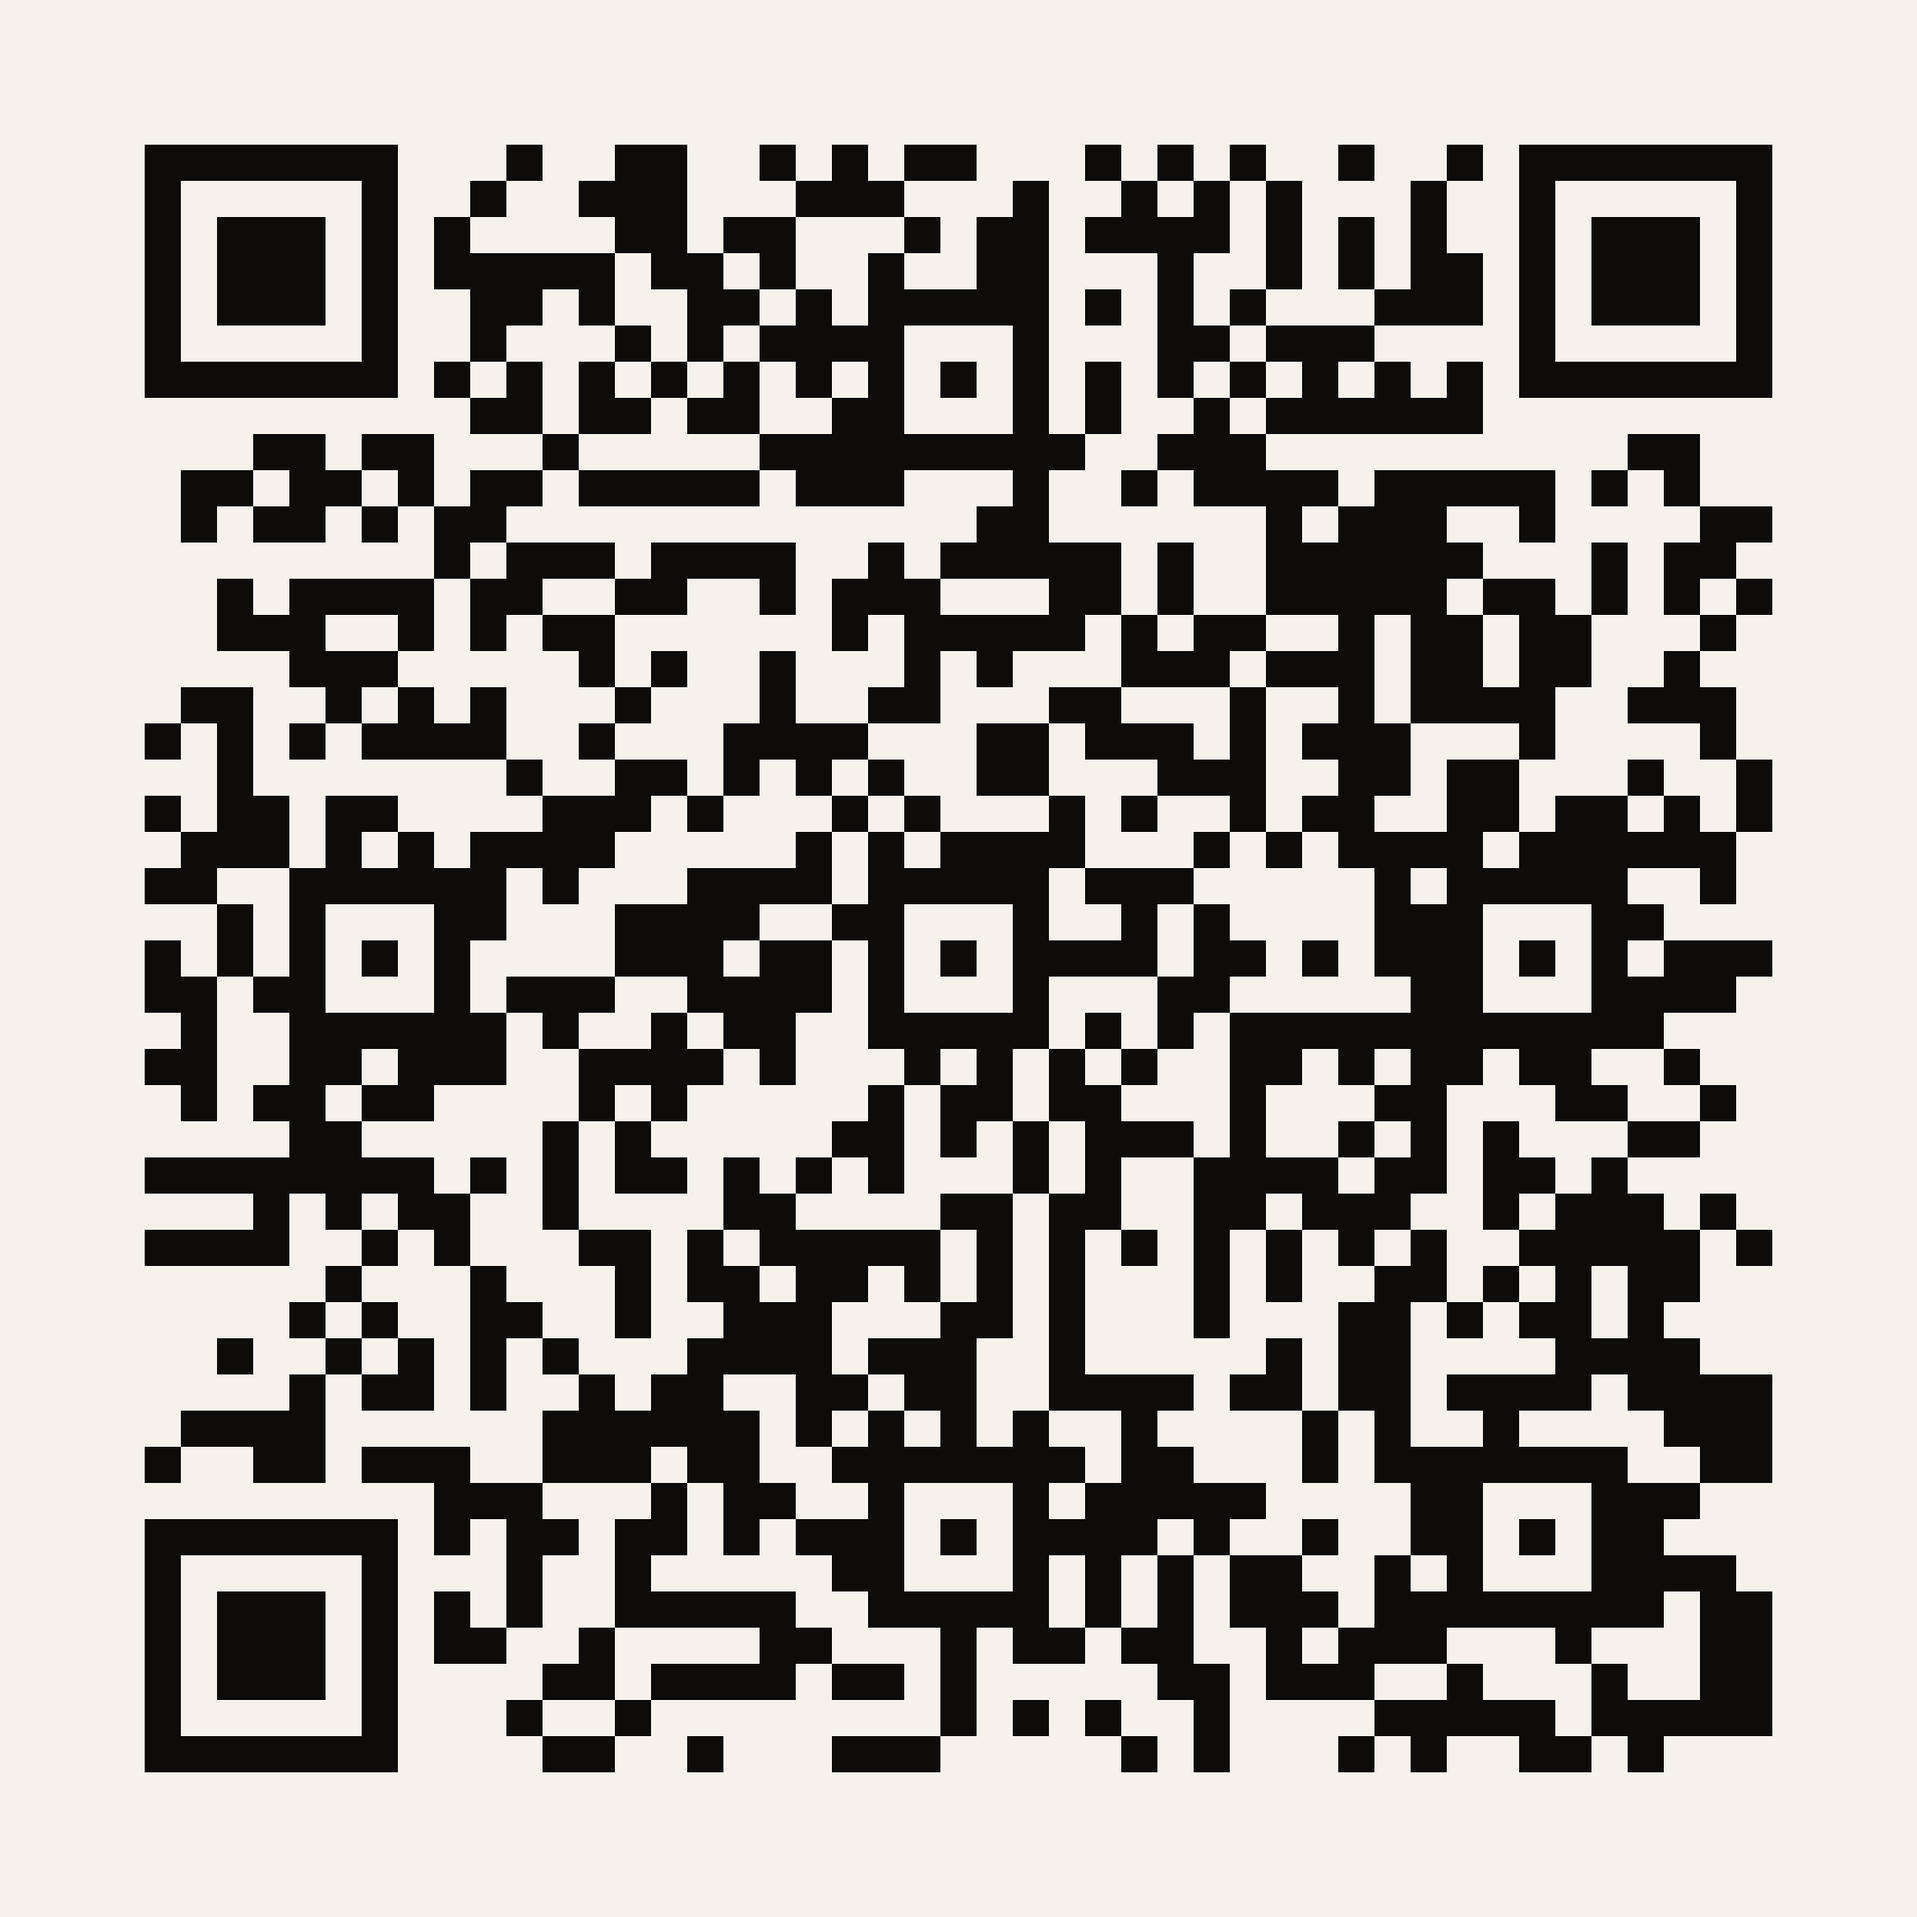
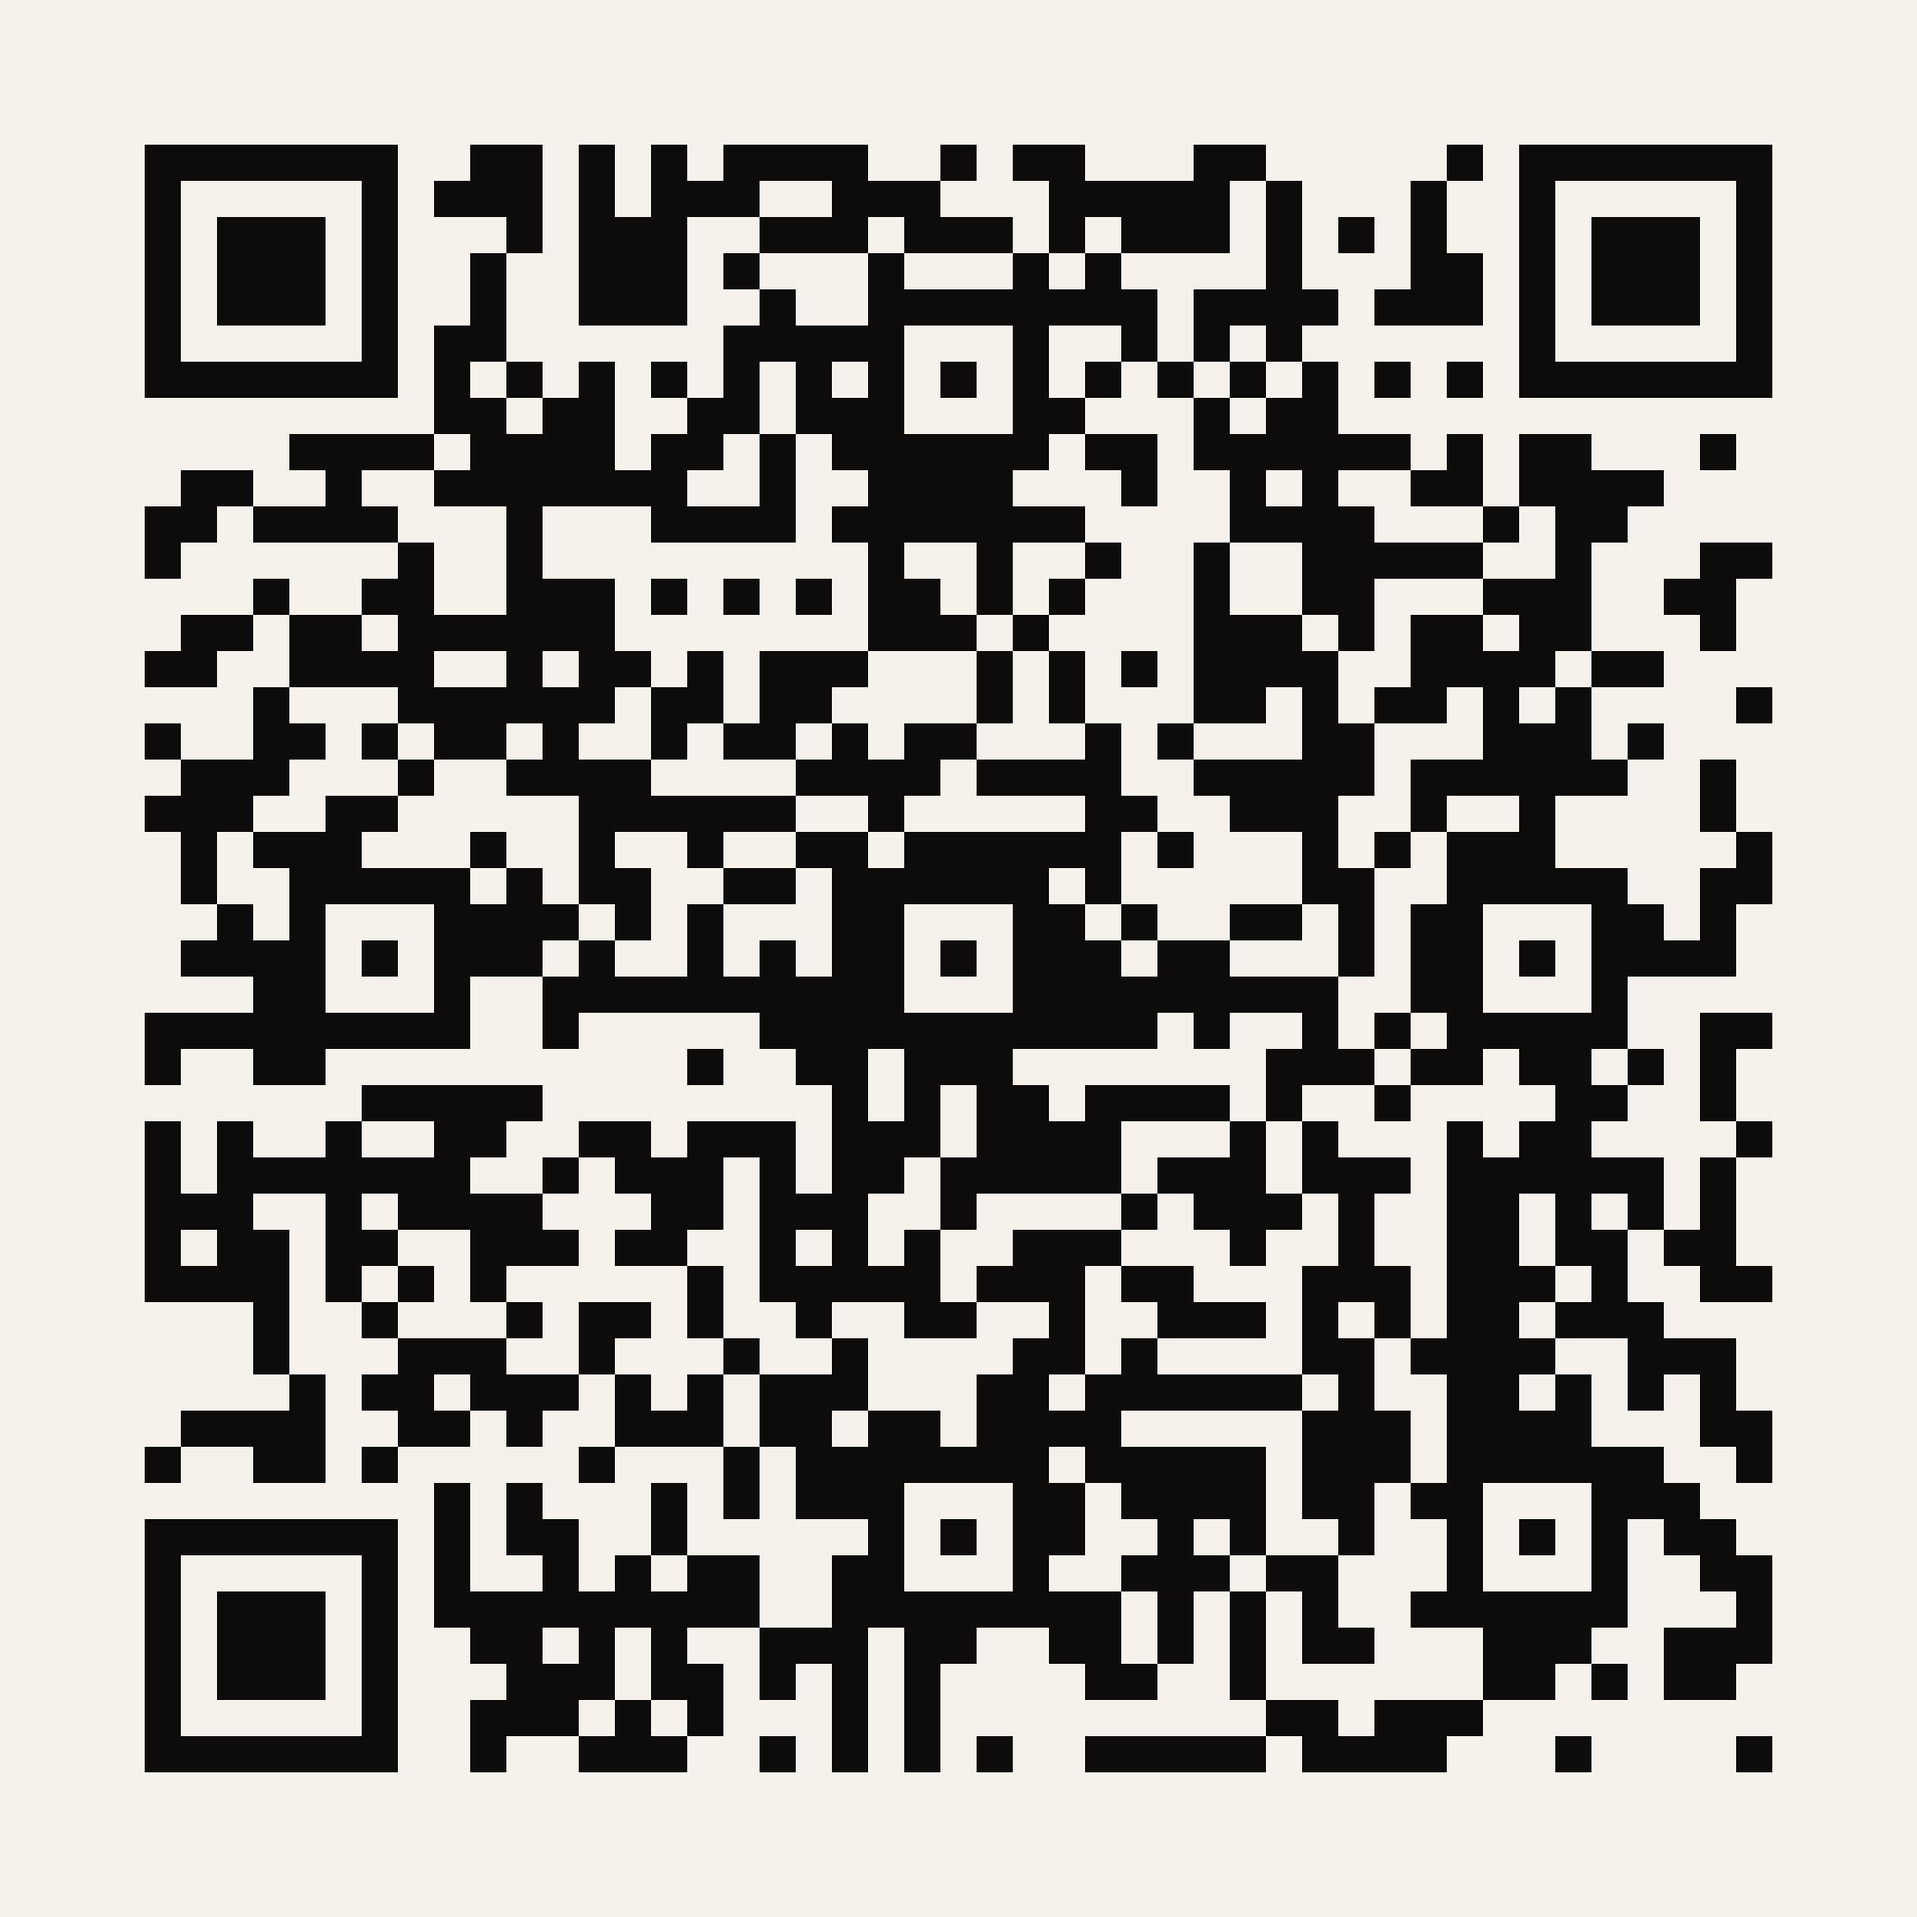
fix(resena): revert QRs to arkwright.laralawn.com — prior commit used wrong host
The .env.local NEXT_PUBLIC_SITE_URL value is stale; the live Railway
CNAME is arkwright.laralawn.com. Final embedded URL:
  https://arkwright.laralawn.com/resena?k=wUbzyElrm3jmOz3XxdNWtxZv

Changed region(s): [[0.0623, 0.0623, 0.934, 0.934], [0.6849, 0.0623, 0.716, 0.0934]]

diff --git a/qr-print/README.md b/qr-print/README.md
@@ -2,7 +2,7 @@
 
 These PNGs encode the URL:
 ```
-https://arkwrightmethod.com/resena?k=wUbzyElrm3jmOz3XxdNWtxZv
+https://arkwright.laralawn.com/resena?k=wUbzyElrm3jmOz3XxdNWtxZv
 ```
 
 Anyone who scans any of these lands on the gated /resena page. They are
